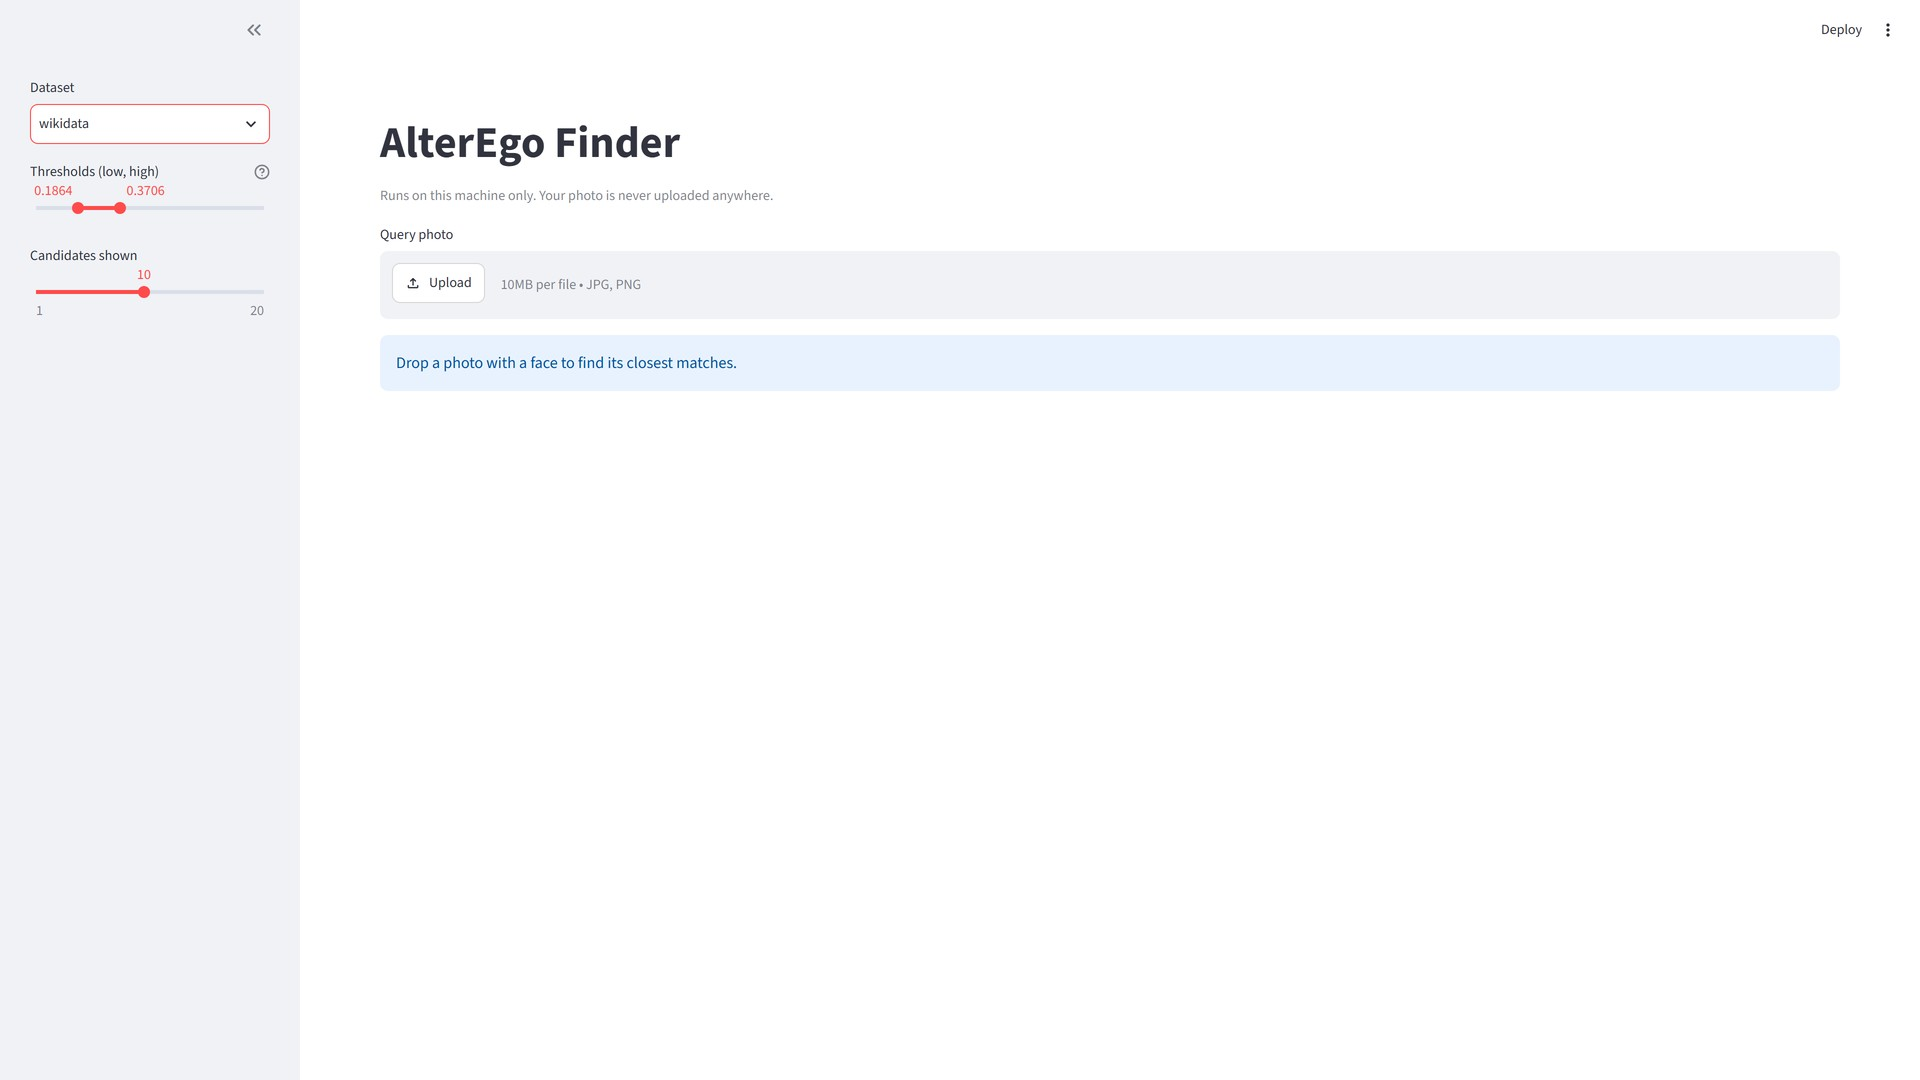
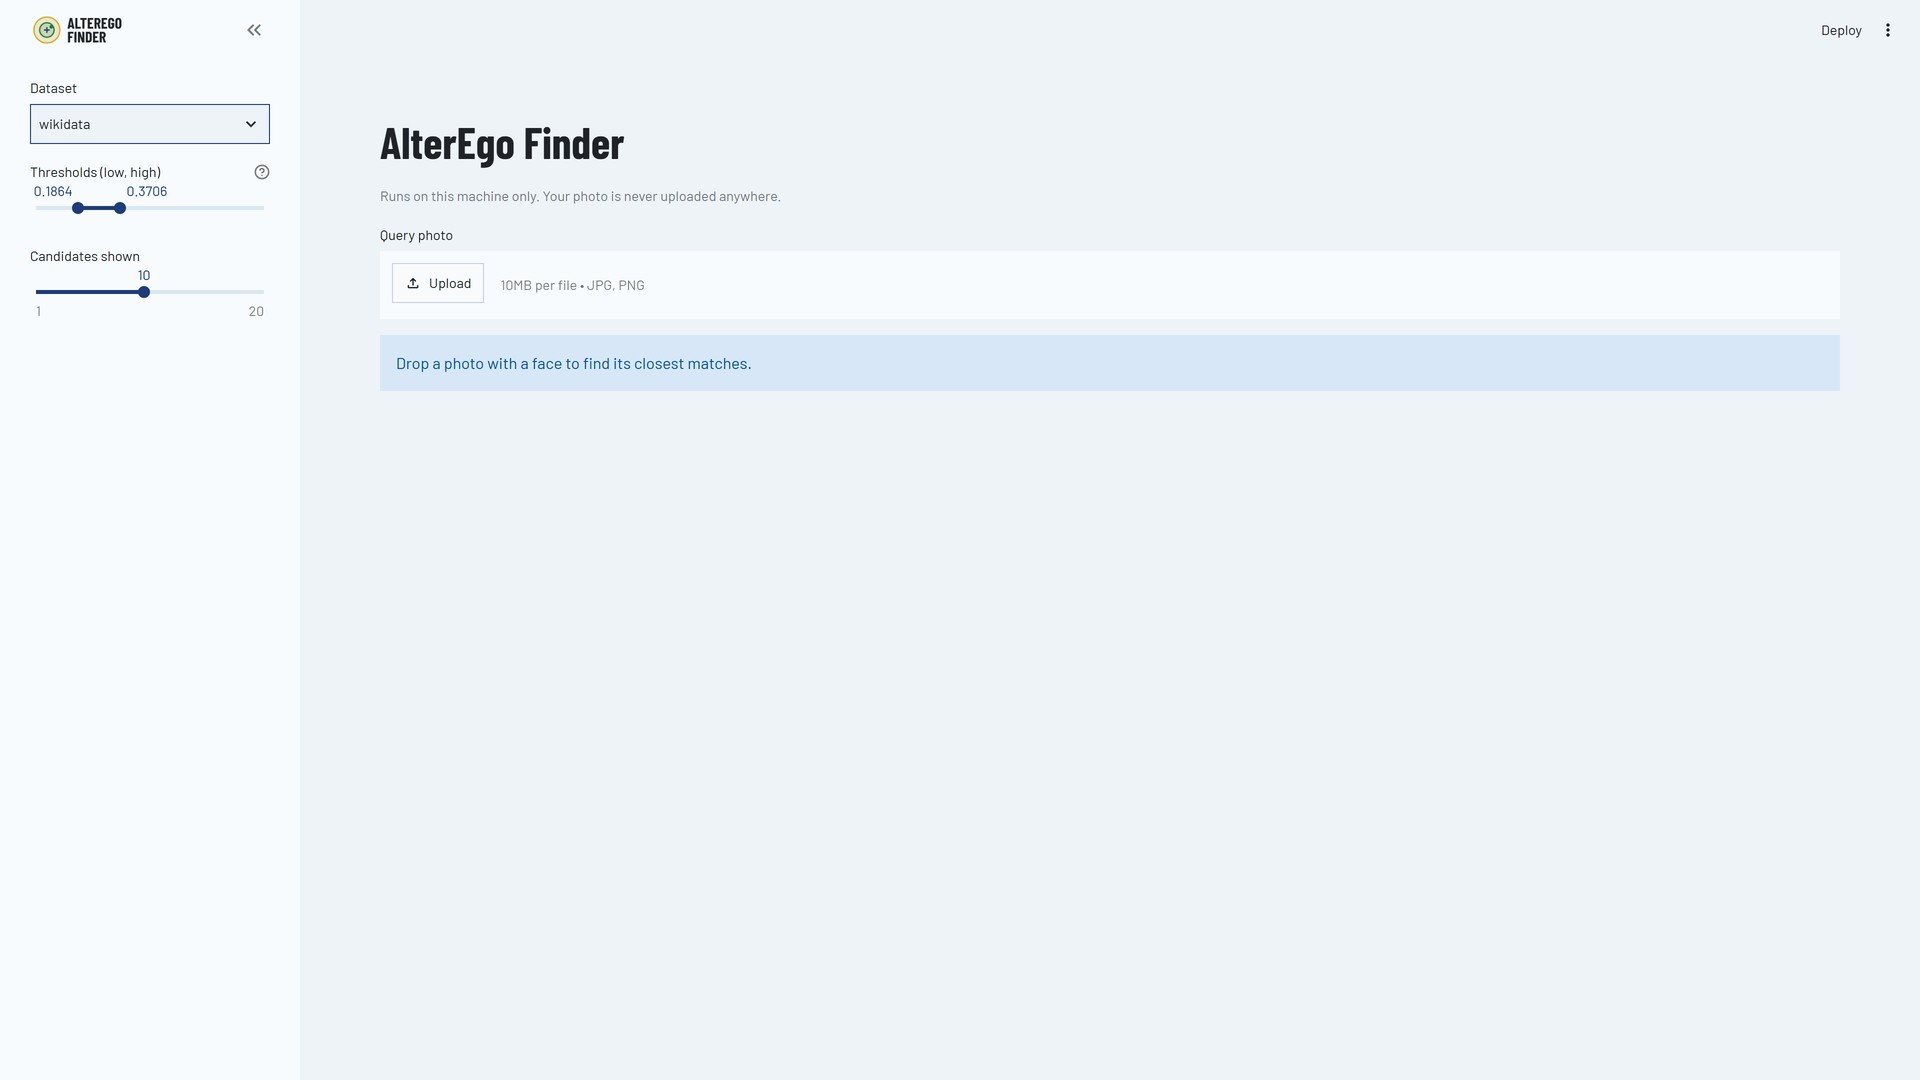
Re-capture the tour video from the restyled app (step 5)

diff --git a/video/tour/compositions/target.html b/video/tour/compositions/target.html
@@ -1,7 +1,7 @@
 <template>
   <style>
     @font-face { font-family: "Barlow Condensed"; font-weight: 700; src: url("assets/fonts/barlow-condensed-latin-700-normal.woff2") format("woff2"); }
-    #root { position: absolute; inset: 0; background-color: #f4f7fb;
+    #root { position: absolute; inset: 0; background-color: #eef3f8;
       background-image: linear-gradient(rgba(29,60,120,.09) 1px, transparent 1px), linear-gradient(90deg, rgba(29,60,120,.09) 1px, transparent 1px);
       background-size: 40px 40px; overflow: hidden; }
     .layer { position: absolute; inset: 0; }
@@ -9,11 +9,11 @@
     #tg-cam { position: absolute; left: 0; top: 0; width: 1920px; height: 1440px; transform-origin: 0 0; background: #fff; }
     #tg-cam img { display: block; width: 1920px; height: 1440px; }
     #tg-ring { position: absolute; left: 0; top: 0; width: 1920px; height: 1080px; overflow: visible; }
-    #tg-panel { position: absolute; left: 60px; top: 330px; width: 660px; height: 380px; background: #f4f7fb; border: 3px solid #1d3c78; padding: 36px 40px; }
+    #tg-panel { position: absolute; left: 60px; top: 330px; width: 660px; height: 380px; background: #eef3f8; border: 3px solid #1d3c78; padding: 36px 40px; }
     .line { position: absolute; left: 40px; top: 36px; width: 580px; font-family: "Barlow Condensed"; font-weight: 700; text-transform: uppercase; color: #1d3c78; font-size: 72px; line-height: 1; letter-spacing: .01em; }
     .w { display: inline-block; }
     .gold { color: #b8901c; }
-    #tg-key { position: absolute; left: 60px; width: 1800px; top: 890px; height: 80px; background: #f4f7fb; border: 3px solid #1d3c78;
+    #tg-key { position: absolute; left: 60px; width: 1800px; top: 890px; height: 80px; background: #eef3f8; border: 3px solid #1d3c78;
       display: flex; align-items: center; gap: 46px; padding: 0 30px; font: 700 38px "Barlow Condensed"; text-transform: uppercase; color: #1f2328; }
     #tg-key .k-title { color: #1d3c78; }
     #tg-key .dot { display: inline-block; width: 22px; height: 22px; border-radius: 50%; margin-right: 10px; vertical-align: -1px; }

diff --git a/video/tour/compositions/cards.html b/video/tour/compositions/cards.html
@@ -1,7 +1,7 @@
 <template>
   <style>
     @font-face { font-family: "Barlow Condensed"; font-weight: 700; src: url("assets/fonts/barlow-condensed-latin-700-normal.woff2") format("woff2"); }
-    #root { position: absolute; inset: 0; background-color: #f4f7fb;
+    #root { position: absolute; inset: 0; background-color: #eef3f8;
       background-image: linear-gradient(rgba(29,60,120,.09) 1px, transparent 1px), linear-gradient(90deg, rgba(29,60,120,.09) 1px, transparent 1px);
       background-size: 40px 40px; overflow: hidden; }
     .layer { position: absolute; inset: 0; }
@@ -32,7 +32,7 @@
     // the cards populate left to right, then the camera pans along the row
     tl.fromTo("#cd-img", { clipPath: "inset(0 100% 0 0)" }, { clipPath: "inset(0 0% 0 0)", duration: 1.2, ease: "power2.out" }, 0.1);
     words("#cd-cap1", 0.4);
-    tl.fromTo("#cd-strip", { x: 0 }, { x: -846, duration: 1.4, ease: "power2.inOut" }, 2.0);
+    tl.fromTo("#cd-strip", { x: 0 }, { x: -846, duration: 1.1, ease: "power2.inOut" }, 2.9);
     out("#cd-cap1", 3.05);
     words("#cd-cap2", 3.35);
     window.__timelines["cards"] = tl;

diff --git a/video/tour/index.html b/video/tour/index.html
@@ -6,8 +6,8 @@
     <script src="https://cdn.jsdelivr.net/npm/gsap@3.15.0/dist/gsap.min.js"></script>
     <style>
       * { margin: 0; padding: 0; box-sizing: border-box; }
-      html, body { margin: 0; width: 1920px; height: 1080px; overflow: hidden; background: #f4f7fb; }
-      #root { width: 100%; height: 100%; position: relative; background: #f4f7fb; }
+      html, body { margin: 0; width: 1920px; height: 1080px; overflow: hidden; background: #eef3f8; }
+      #root { width: 100%; height: 100%; position: relative; background: #eef3f8; }
       @font-face { font-family: "Barlow Condensed"; font-weight: 700; src: url("assets/fonts/barlow-condensed-latin-700-normal.woff2") format("woff2"); }
       #logo { position: absolute; inset: 0; z-index: 10; pointer-events: none; }
       #logo-lock { position: absolute; right: 36px; top: 24px; height: 76px; display: flex; align-items: center; gap: 12px;

diff --git a/video/tour/compositions/end.html b/video/tour/compositions/end.html
@@ -3,7 +3,7 @@
     @font-face { font-family: "Barlow Condensed"; font-weight: 700; src: url("assets/fonts/barlow-condensed-latin-700-normal.woff2") format("woff2"); }
     @font-face { font-family: "Barlow"; font-weight: 500; src: url("assets/fonts/barlow-latin-500-normal.woff2") format("woff2"); }
     @font-face { font-family: "Barlow"; font-weight: 600; src: url("assets/fonts/barlow-latin-600-normal.woff2") format("woff2"); }
-    #root { position: absolute; inset: 0; background-color: #f4f7fb;
+    #root { position: absolute; inset: 0; background-color: #eef3f8;
       background-image: linear-gradient(rgba(29,60,120,.09) 1px, transparent 1px), linear-gradient(90deg, rgba(29,60,120,.09) 1px, transparent 1px);
       background-size: 40px 40px; overflow: hidden; }
     .layer { position: absolute; inset: 0; }

diff --git a/video/tour/compositions/drop.html b/video/tour/compositions/drop.html
@@ -2,7 +2,7 @@
   <style>
     @font-face { font-family: "Barlow Condensed"; font-weight: 700; src: url("assets/fonts/barlow-condensed-latin-700-normal.woff2") format("woff2"); }
     @font-face { font-family: "Barlow"; font-weight: 500; src: url("assets/fonts/barlow-latin-500-normal.woff2") format("woff2"); }
-    #root { position: absolute; inset: 0; background-color: #f4f7fb;
+    #root { position: absolute; inset: 0; background-color: #eef3f8;
       background-image: linear-gradient(rgba(29,60,120,.09) 1px, transparent 1px), linear-gradient(90deg, rgba(29,60,120,.09) 1px, transparent 1px);
       background-size: 40px 40px; overflow: hidden; }
     .layer { position: absolute; inset: 0; }

diff --git a/video/tour/compositions/local.html b/video/tour/compositions/local.html
@@ -1,7 +1,7 @@
 <template>
   <style>
     @font-face { font-family: "Barlow Condensed"; font-weight: 700; src: url("assets/fonts/barlow-condensed-latin-700-normal.woff2") format("woff2"); }
-    #root { position: absolute; inset: 0; background-color: #f4f7fb;
+    #root { position: absolute; inset: 0; background-color: #eef3f8;
       background-image: linear-gradient(rgba(29,60,120,.09) 1px, transparent 1px), linear-gradient(90deg, rgba(29,60,120,.09) 1px, transparent 1px);
       background-size: 40px 40px; overflow: hidden; }
     .layer { position: absolute; inset: 0; }

diff --git a/PROCESS.md b/PROCESS.md
@@ -32,3 +32,4 @@ How the promo page (Homework 9) was made: after each step, one row with the step
 | HW10 4b. OpenSpec proposal | Created the change `apply-shared-design` with `/opsx:propose`: proposal, delta specs for `web-ui` and `summary-report` (a shared look and the logo, nothing from the network, the report still self-contained), design (Streamlit theme, local fonts, label dots, coloured rings, embedded report fonts) and tasks; validated it. | Chose to restyle before re-capturing the video, and to include the report. |
 | HW10 4c. Apply the shared design (`/opsx:apply`) | Copied the fonts and logo into `static/`, rendered the logo lockup, set Streamlit's theme to DESIGN.md (paper, navy, Barlow, square corners, the label colours), put the logo in the sidebar and tab, drew the target's rings in green and gold, tried three label styles in the real theme and kept the readable one, restyled the report with embedded fonts and the logo, added the logo and favicon to the promo page, wrote 7 tests; checked the app in a browser (only localhost contacted) and the report offline; 278 tests pass. | Reviewed the proposal and said "apply". |
 | HW10 4d. Archive (`/opsx:archive`) | Pushed the implementation first, then synced the two added requirements into `openspec/specs/web-ui` and `summary-report`, checked every scenario arrived and all specs validate, moved the change to `openspec/changes/archive/2026-11-17-apply-shared-design`, and updated AGENTS.md's status. | Said yes to archiving and chose to sync the specs. |
+| HW10 5. Re-capture the video | Drove the restyled app again with the same photo, checked that nothing moved on the page, replaced the video's app screens, set its ground to the design system's paper, delayed the cards pan so the caption and the card match, checked frames and rendered it again (30 s, with music). | Approved archiving the change and going on to the video. |

diff --git a/PLANNING_LOG.md b/PLANNING_LOG.md
@@ -236,3 +236,4 @@ One line per decision: date, what was decided, who decided it. Append-only — n
 - 2026-11-17: Applying `apply-shared-design`, the label colour moved from a dot to Streamlit's own highlight: the label word in bold ink on a light wash of its colour, because Material Symbols draw unfilled circles, a Unicode dot is ruled out by Impeccable's craft floor and a drawn dot would need unsafe HTML; DESIGN.md records it as the app's form of the label chip. Decided by agent.
 - 2026-11-17: `apply-shared-design` implemented: the page's theme, fonts and logo come from `.streamlit/config.toml` and `static/` (only localhost is contacted, checked in a browser), the target's rings are green and gold, the report embeds Barlow and the logo (fonts load offline), and the promo page has the logo and a favicon; 278 tests pass (7 new). Decided by agent.
 - 2026-11-17: `apply-shared-design` archived after syncing its two added requirements (web-ui: Shared look and logo; summary-report: Shared look and logo in the report) into the main specs; implementation and archive pushed separately. Sync proposed by agent, accepted by user.
+- 2026-11-17: The tour's app screens are captured again from the restyled app (same DiCaprio run; the layout did not move, so the camera moves and rings still line up), its ground becomes DESIGN.md's paper #eef3f8, and the cards pan starts later so DiCaprio stays in view under his caption. Decided by agent.

diff --git a/video/tour/SPEC.md b/video/tour/SPEC.md
@@ -5,7 +5,7 @@ GOAL:    a viewer who has never heard of the program knows what it does (drop a 
 OUTPUT:  HyperFrames, 1920 x 1080, 30 fps. Music: "Carefree", Kevin MacLeod (incompetech.com), CC BY 4.0,
          first 30 s, 0.4 s fade-in, 2.5 s fade-out, -18 LUFS. It starts muted on the page and works without sound.
 TIME:    30 s x 30 fps = 900 frames.
-LOOK:    the promo page's scorecard world. Ground #f4f7fb with a printed grid (40 px, rgba(29,60,120,.09));
+LOOK:    the promo page's scorecard world. Ground #eef3f8 (DESIGN.md paper) with a printed grid (40 px, rgba(29,60,120,.09));
          ink #1f2328; rule navy #1d3c78 for every display line and frame. Label colours appear only on
          labels: #1a7f37 Same person, #d4a72c Alter Ego, #8c959f Not You.
          Display: Barlow Condensed 700, uppercase, 72-150 px, tracking 0.01em. Body: Barlow 500, 30-34 px.
